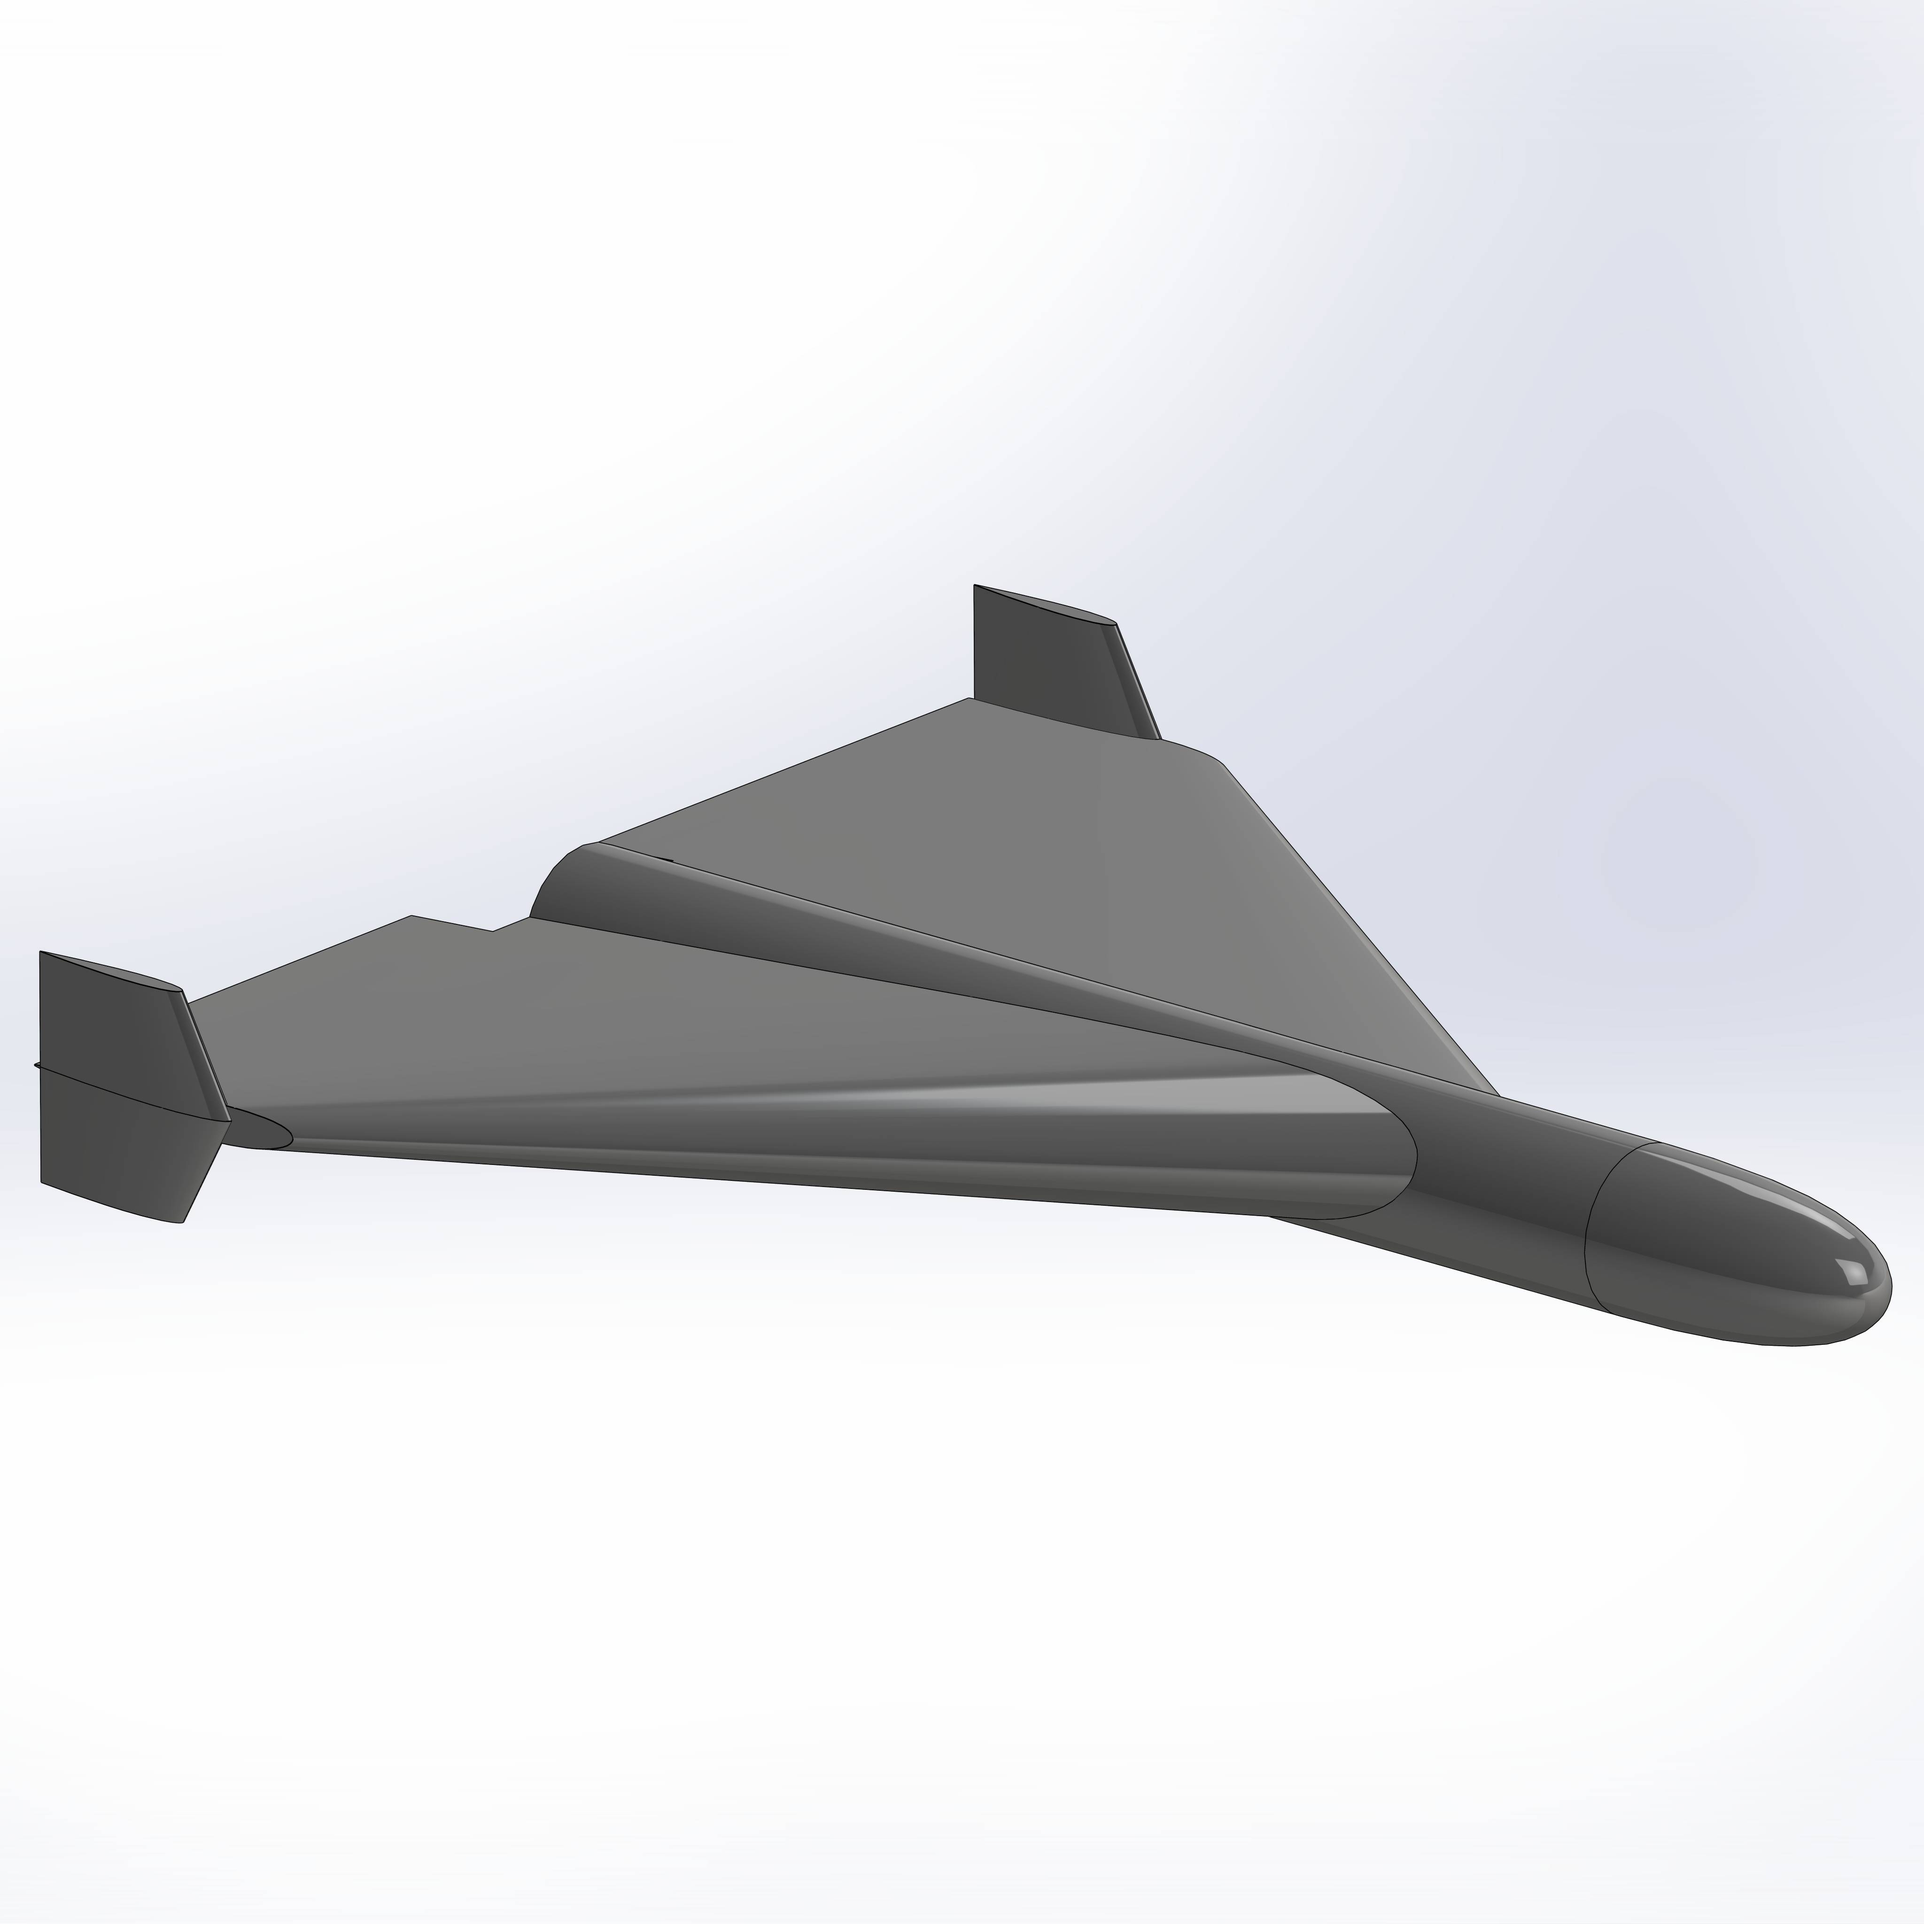
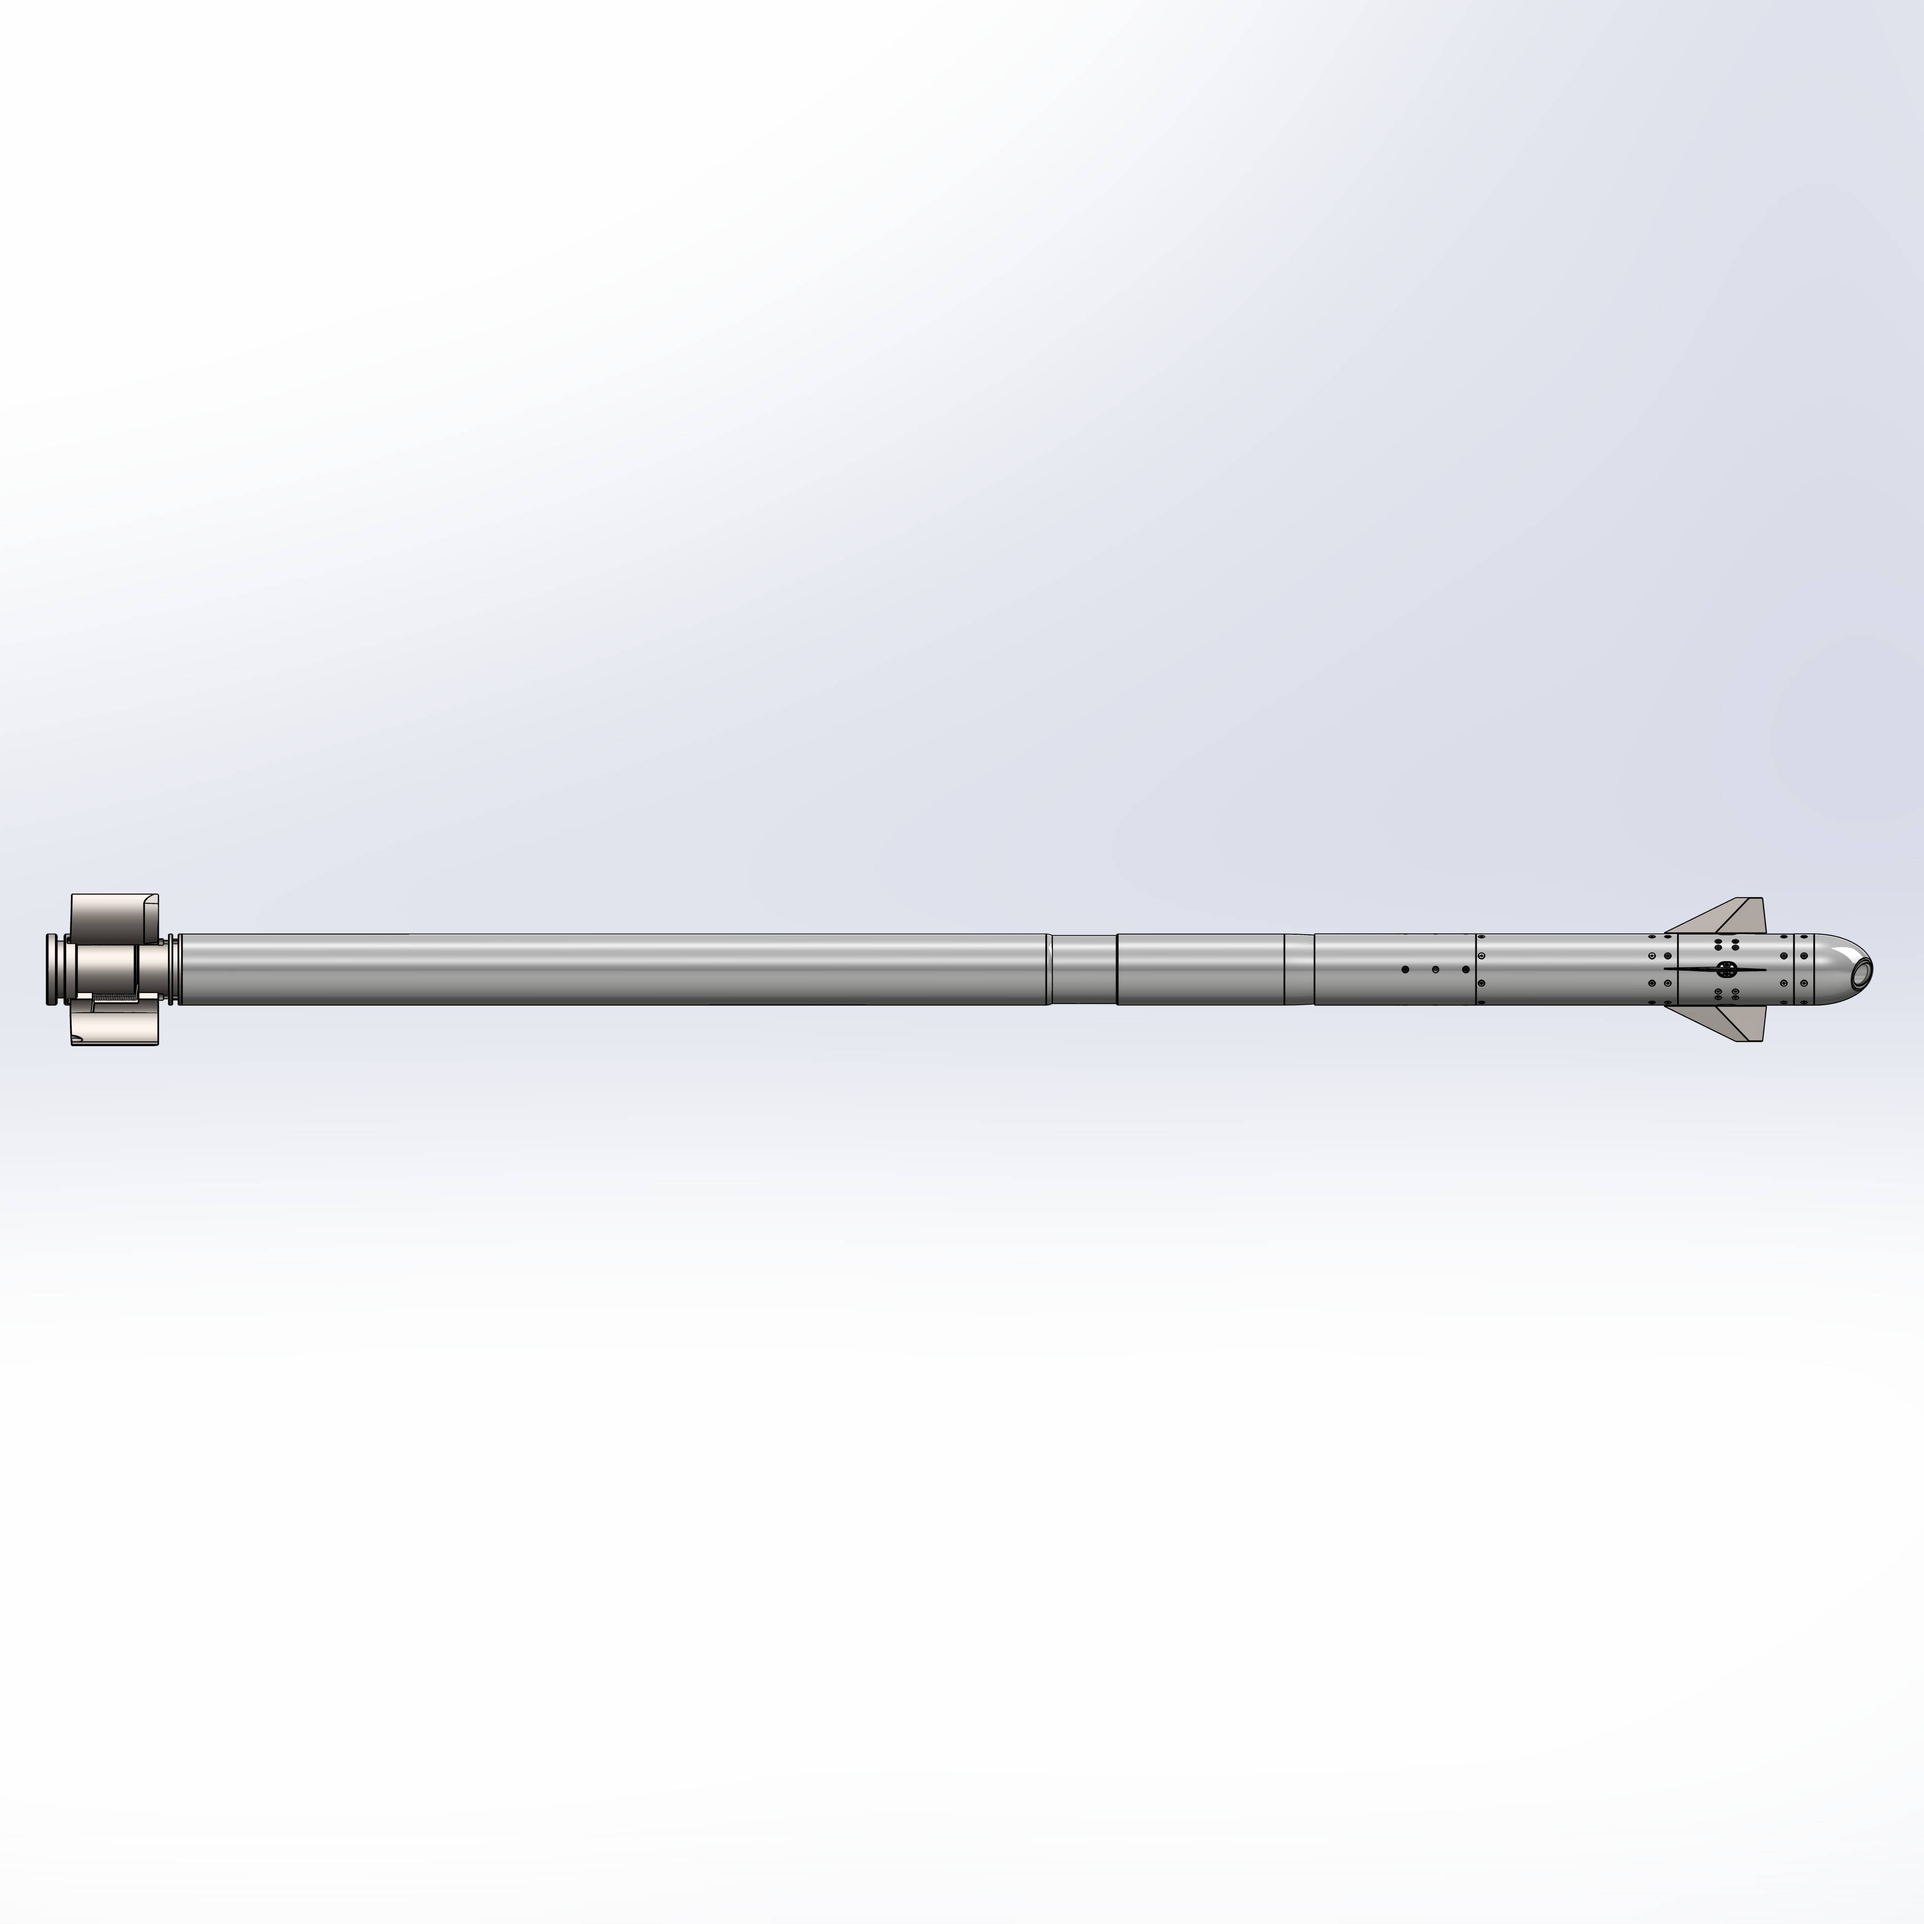
swap 2 and 3, fix uk

Changed region(s): [[0.0, 0.2812, 1.0, 0.7188]]

diff --git a/src/home-ui.js b/src/home-ui.js
@@ -13,7 +13,7 @@
       "sideNav.projects": "Наші розробки",
       "sideNav.contact": "Контакт",
       "slides.s1.title": "SGM «VESNA»",
-      "slides.s1.titleHtml": "<span class=\"ref-title-accent\">Small Guided Missile</span><br>SGM «VESNA»",
+      "slides.s1.titleHtml": "<span class=\"ref-title-accent\">Мала керована ракета</span><br>SGM «VESNA»",
       "slides.s1.p1": "SGM «Vesna» — це керована ракета на базі серійної платформи Hydra 70, призначена для масового застосування проти малогабаритних повітряних цілей.",
       "slides.s1.p2": "Основний підхід — використання існуючих ракетних платформ з додаванням модуля управління, що дозволяє швидко перейти від некерованого озброєння до керованого без зміни виробничої бази.",
       "slides.s1.p3": "Проект орієнтований на створення компактного та масштабованого рішення, яке може бути розгорнуто у складі розподіленого комплексу з мінімальними вимогами до інфраструктури та персоналу.",
